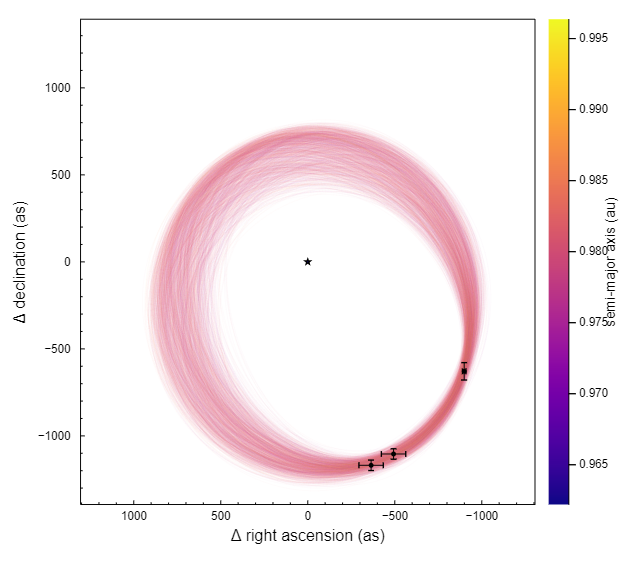
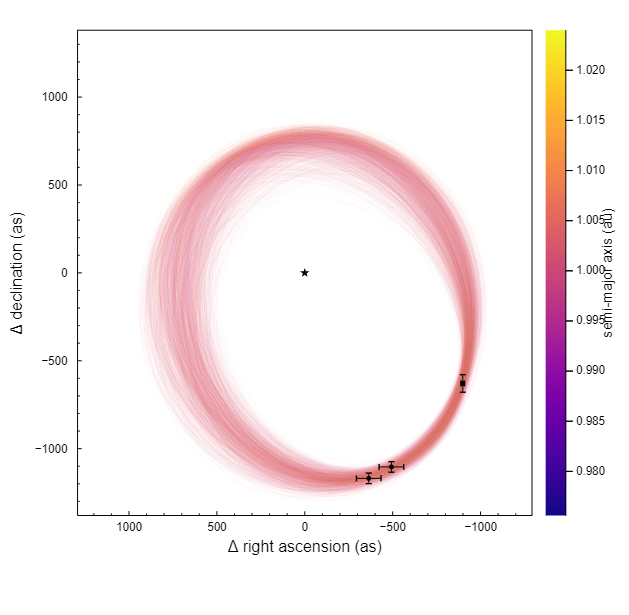
Update docs

Changed region(s): [[0.0604, 0.0308, 0.9968, 0.9231], [0.0, 0.3385, 0.0604, 0.5538], [0.4833, 0.4308, 0.5135, 0.4615]]

diff --git a/docs/src/modelling.md b/docs/src/modelling.md
@@ -2,6 +2,8 @@
 
 Here is a worked example of a basic model. It contains a star with a single planet, and several astrometry points.
 
+The full code is available on [GitHub](github.com/sefffal/DirectDetections.jl/examples/basic-example.jl)
+
 Start by loading the DirectDetections and Plots packages:
 ```julia
 using DirectDetections, Distributions, Plots
@@ -15,13 +17,14 @@ Create our first planet. Let's name it planet X.
     Priors(
         a = Normal(1, 0.5),
         e = TruncatedNormal(0.0, 0.2, 0, 1.0),
-        τ = Normal(0.5, 0.5,),
-        ω = Normal(0., 2π),
+        τ = Normal(0.5, 1),
+        ω = Normal(deg2rad(250.), deg2rad(80.)),
         i = Normal(deg2rad(20.), deg2rad(10.)),
-        Ω = Normal(0., 2π),
+        Ω = Normal(deg2rad(200.), deg2rad(30.)),
     ),
     Astrometry(
         (epoch=5000.,  ra=-364., dec=-1169., σ_ra=70., σ_dec=30.),
+        (epoch=5014.,  ra=-493., dec=-1104., σ_ra=70., σ_dec=30.),
         (epoch=5072.,  ra=-899., dec=-629., σ_ra=10., σ_dec=50.),
     )
 )
